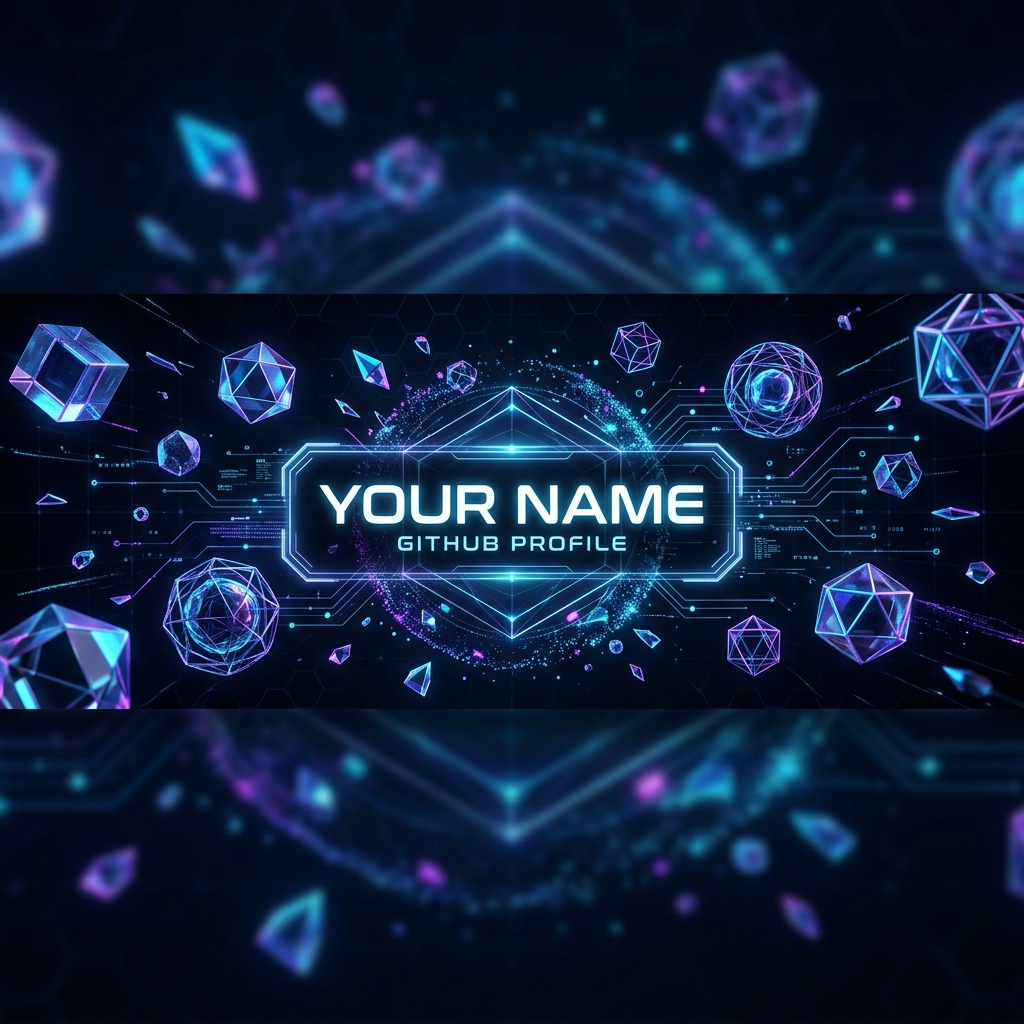
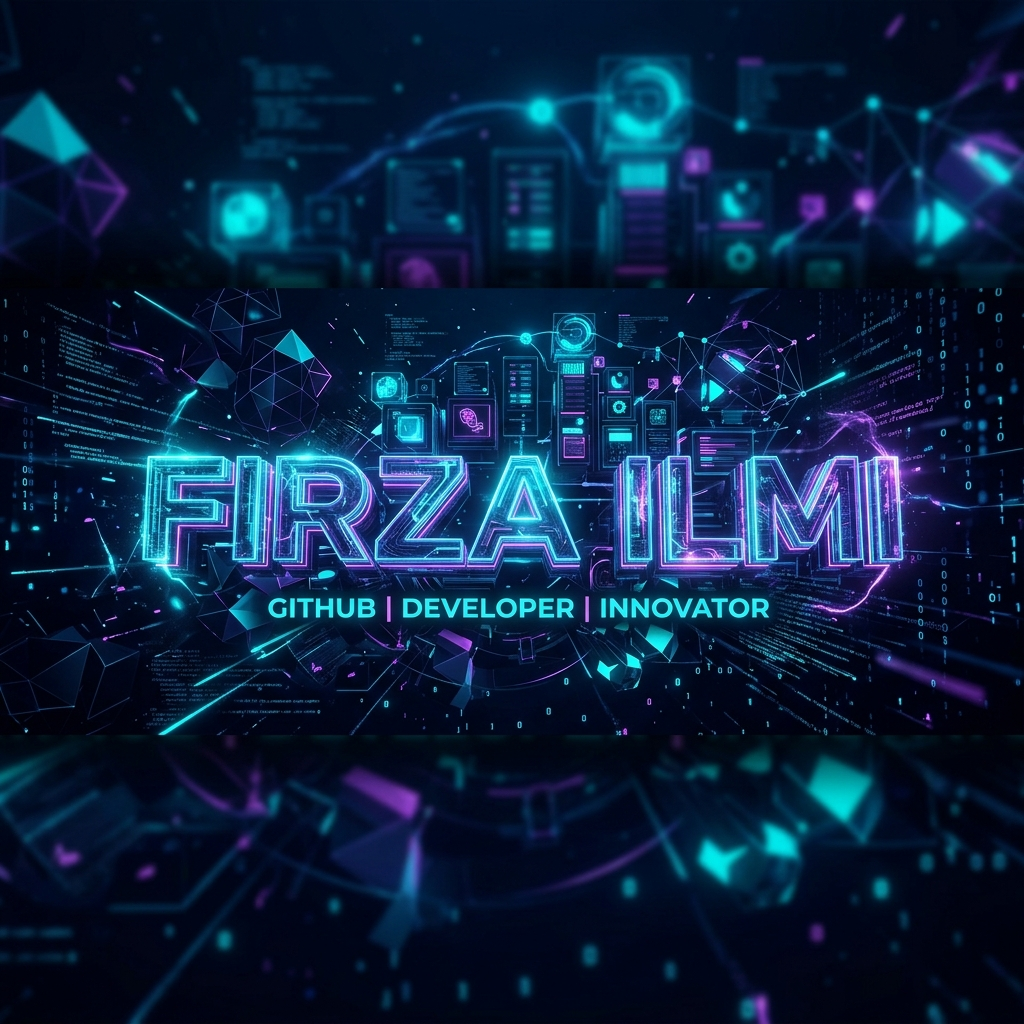
Add files via upload

diff --git a/README.md b/README.md
@@ -3,74 +3,78 @@
 <div align="center">
 
 <!-- HEADER BANNER -->
-<img src="https://raw.githubusercontent.com/Maverick-list/Maverick-list/main/banner.png" width="100%" alt="Maverick Banner" />
+<img src="https://raw.githubusercontent.com/Maverick-list/Maverick-list/main/banner.png" width="100%" alt="Firza Ilmi Banner" />
 
 <br/>
 
-<!-- TYPING ANIMATION -->
+<!-- DYNAMIC GREETING -->
 <a href="https://git.io/typing-svg">
-  <img src="https://readme-typing-svg.herokuapp.com?font=Outfit&size=35&duration=3000&pause=1000&color=4A90E2&center=true&vCenter=true&width=600&lines=Assalamu'alaikum+Warahmatullah!;Konnichiwa!+こんにちは;Annyeong!+안녕;I+am+Firza+Miftahul+Ilmi;No+success+before+fail." alt="Typing SVG" />
+  <img src="https://readme-typing-svg.herokuapp.com?font=Orbitron&size=40&duration=2500&pause=1000&color=00F2FF&center=true&vCenter=true&width=700&lines=Greetings,+Universe!;I+am+Firza+Ilmi;Full+Stack+Explorer;Turning+Ideas+into+Reality;No+success+before+fail." alt="Typing SVG" />
 </a>
 
 <p align="center">
-  <img src="https://komarev.com/ghpvc/?username=Maverick-list&label=Profile%20Views&color=0078d7&style=flat-square&logo=github" alt="Views" />
+  <img src="https://komarev.com/ghpvc/?username=Maverick-list&label=SYSTEM%20ACCESSES&color=00F2FF&style=for-the-badge&logo=opsgenie" alt="Views" />
 </p>
 
 ---
 
-### 🚀 About Me
+### 🌌 MISSION OVERVIEW
 
-<p align="left">
-  Hello! I'm <b>Firza</b> (Maverick), a passionate developer exploring the digital universe. 🌌 <br/>
-  I'm currently building my skills in web development and data science.
-</p>
-
-- 🎓 **Education**: PU ‘27🧑🏻💻 | DJA ‘33👳🏼
-- 🎯 **Focus**: Web Programming & Automation
-- 💬 **Ask me about**: HTML, Git, and Building Portfolios
-- ⚡ **Fun Fact**: I believe there is "No success before fail".
+<table align="center">
+  <tr>
+    <td width="50%" valign="top">
+      <h4>📍 Current Coordinates</h4>
+      <ul>
+        <li>🎓 <b>President University</b> '27</li>
+        <li>🏢 <b>DJA</b> '33</li>
+        <li>🔭 <b>Status</b>: Exploring Web3 & AI</li>
+      </ul>
+    </td>
+    <td width="50%" valign="top">
+      <h4>🛠 Tech Arsenal</h4>
+      <img src="https://skillicons.dev/icons?i=html,css,js,py,git,github,vscode,figma&perline=4" />
+    </td>
+  </tr>
+</table>
 
 ---
 
-### 📊 3D Contribution Graph
-<!-- This will be generated by the GitHub Action -->
+### 📊 3D COGNITIVE GRAPH
 <div align="center">
-  <img src="https://raw.githubusercontent.com/Maverick-list/Maverick-list/main/profile-3d-contrib/profile-night-green.svg" width="100%" alt="3D Contributions" />
+  <img src="https://raw.githubusercontent.com/Maverick-list/Maverick-list/main/profile-3d-contrib/profile-night-rainbow.svg" width="100%" alt="3D Contributions" />
 </div>
 
 ---
 
-### 🛠 Tech Stack
+### 📈 PERFORMANCE METRICS
 <div align="center">
-  <a href="https://skillicons.dev">
-    <img src="https://skillicons.dev/icons?i=html,css,js,py,jupyter,git,github,vscode,figma&theme=dark" />
-  </a>
-</div>
-
----
-
-### 📈 GitHub Statistics
-<div align="center">
-  <img src="https://github-readme-stats.vercel.app/api?username=Maverick-list&show_icons=true&theme=tokyonight&hide_border=true&count_private=true" width="48%" />
-  <img src="https://github-readme-stats.vercel.app/api/top-langs/?username=Maverick-list&layout=compact&theme=tokyonight&hide_border=true" width="48%" />
+  <img src="https://github-readme-stats.vercel.app/api?username=Maverick-list&show_icons=true&theme=neon&hide_border=true&title_color=00F2FF&text_color=FFFFFF&icon_color=00F2FF" width="48%" />
+  <img src="https://github-readme-stats.vercel.app/api/top-langs/?username=Maverick-list&layout=compact&theme=neon&hide_border=true&title_color=00F2FF&text_color=FFFFFF" width="48%" />
 </div>
 
 <br/>
 
 <div align="center">
-  <img src="https://github-readme-streak-stats.herokuapp.com/?user=Maverick-list&theme=tokyonight&hide_border=true" width="100%" />
+  <img src="https://github-readme-streak-stats.herokuapp.com/?user=Maverick-list&theme=neon&hide_border=true&stroke=00F2FF&ring=00F2FF&fire=00F2FF&currStreakLabel=00F2FF" width="100%" />
 </div>
 
 ---
 
-### 🌐 Connect with Me
+### 🌐 NEURAL LINKS
 <div align="center">
   <a href="https://www.instagram.com/maverick_list/" target="_blank">
-    <img src="https://img.shields.io/badge/Instagram-%23E4405F.svg?style=for-the-badge&logo=Instagram&logoColor=white" />
+    <img src="https://img.shields.io/badge/Instagram-E4405F?style=for-the-badge&logo=instagram&logoColor=white" />
   </a>
+  &nbsp;
   <a href="https://www.tiktok.com/@mavericklist" target="_blank">
-    <img src="https://img.shields.io/badge/TikTok-%23000000.svg?style=for-the-badge&logo=TikTok&logoColor=white" />
+    <img src="https://img.shields.io/badge/TikTok-000000?style=for-the-badge&logo=tiktok&logoColor=white" />
   </a>
 </div>
+
+<br/>
+
+<p align="center">
+  <img src="https://capsule-render.vercel.app/api?type=waving&color=00F2FF&height=100&section=footer" width="100%" />
+</p>
 
 </div>
